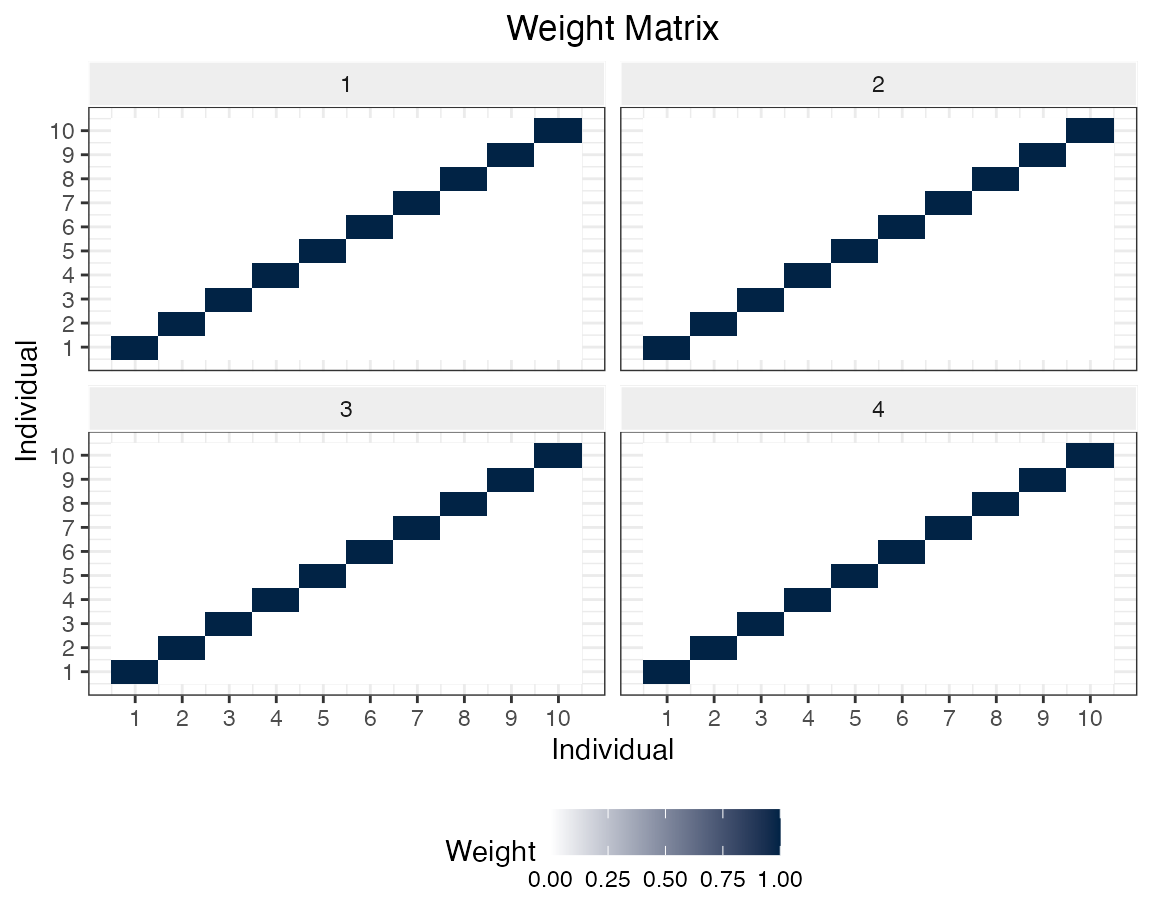
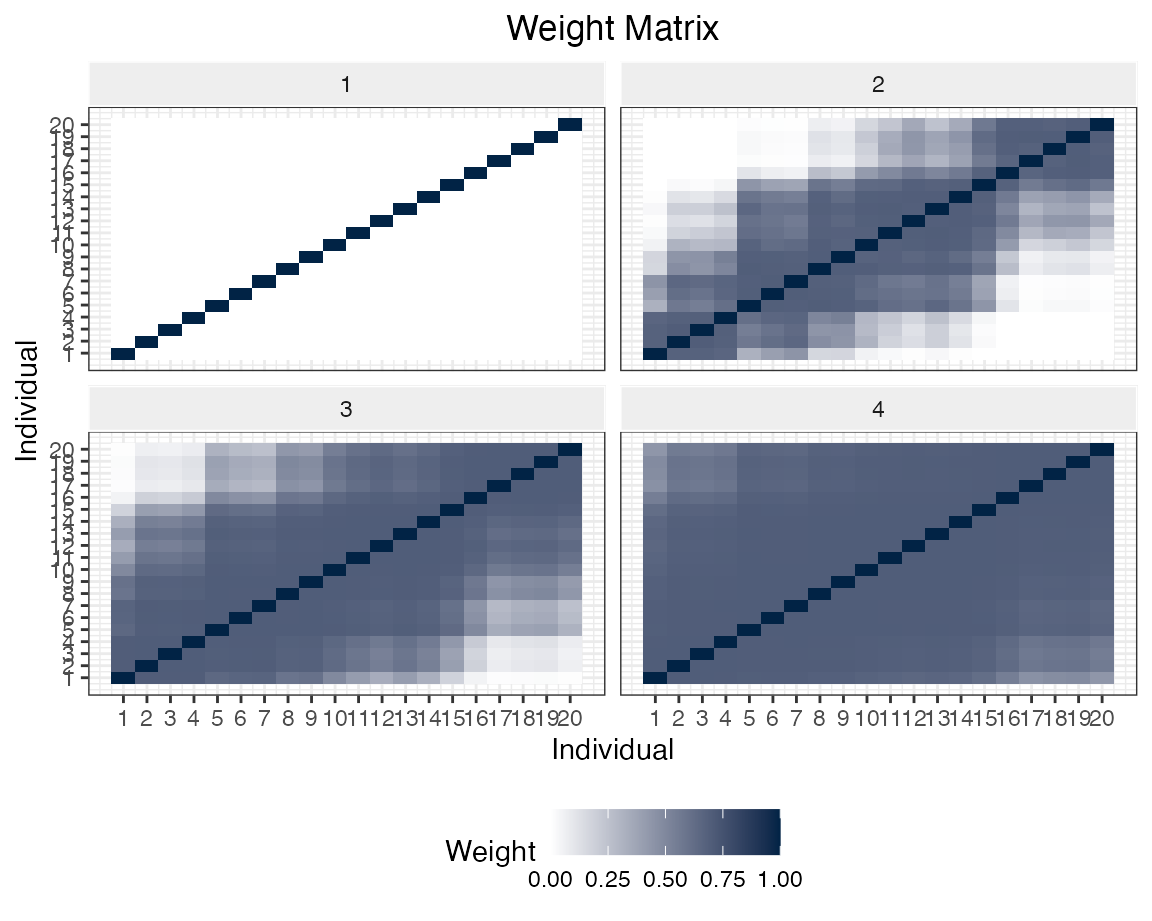
Built site for AdaptiveDiscreteSmoothing: 0.0.0.9000@864e9a6

diff --git a/articles/intro_ads.html b/articles/intro_ads.html
@@ -45,21 +45,21 @@
 </li>
 <li>
   <a href="../articles/getstarted.html">
-    <span class="fas fa-solid fa-rocket"></span>
+    <span class="fa fa-solid fa-rocket"></span>
      
     Get started
   </a>
 </li>
 <li>
   <a href="../reference/index.html">
-    <span class="fas fa-file-alt"></span>
+    <span class="fa fa-file-alt"></span>
      
     Reference
   </a>
 </li>
 <li class="dropdown">
   <a href="#" class="dropdown-toggle" data-toggle="dropdown" role="button" aria-expanded="false">
-    <span class="fas fa-solid fa-book"></span>
+    <span class="fa fa-solid fa-book"></span>
      
     Articles
      
@@ -150,10 +150,10 @@ At first, we have to initialize the adaptive discrete smoothing model with a val
 -\alpha_j\\-\alpha_j^2\\ \alpha_j\\ \alpha_j/2\\ \alpha_j/3 \\ \vdots  \end{pmatrix}.\]</span></p>
 <div class="sourceCode" id="cb5"><pre class="downlit sourceCode r">
 <code class="sourceCode R"><span class="fu"><a href="https://rdrr.io/r/base/Random.html">set.seed</a></span><span class="op">(</span><span class="fl">42</span><span class="op">)</span>
-<span class="va">n</span> <span class="op">&lt;-</span> <span class="fl">100</span>; <span class="va">N</span> <span class="op">&lt;-</span> <span class="fl">10</span>; <span class="va">p</span> <span class="op">&lt;-</span> <span class="fl">10</span>
+<span class="va">n</span> <span class="op">&lt;-</span> <span class="fl">200</span>; <span class="va">N</span> <span class="op">&lt;-</span> <span class="fl">20</span>; <span class="va">p</span> <span class="op">&lt;-</span> <span class="fl">10</span>
 
 <span class="va">ind</span> <span class="op">&lt;-</span> <span class="fu"><a href="https://rdrr.io/r/base/factor.html">as.factor</a></span><span class="op">(</span><span class="fu"><a href="https://rdrr.io/r/base/rep.html">rep</a></span><span class="op">(</span><span class="fl">1</span><span class="op">:</span><span class="va">N</span>,each <span class="op">=</span> <span class="va">n</span><span class="op">)</span><span class="op">)</span>
-<span class="va">alpha_vec</span> <span class="op">&lt;-</span> <span class="fu"><a href="https://rdrr.io/r/stats/Uniform.html">runif</a></span><span class="op">(</span><span class="va">N</span>, min <span class="op">=</span> <span class="fl">0</span>, max <span class="op">=</span> <span class="fl">1</span><span class="op">)</span>
+<span class="va">alpha_vec</span> <span class="op">&lt;-</span> <span class="fu"><a href="https://rdrr.io/r/base/sort.html">sort</a></span><span class="op">(</span><span class="fu"><a href="https://rdrr.io/r/stats/Uniform.html">runif</a></span><span class="op">(</span><span class="va">N</span>, min <span class="op">=</span> <span class="fl">0</span>, max <span class="op">=</span> <span class="fl">1</span><span class="op">)</span><span class="op">)</span>
 <span class="va">X</span> <span class="op">&lt;-</span> <span class="fu"><a href="https://rdrr.io/r/base/matrix.html">matrix</a></span><span class="op">(</span>nrow <span class="op">=</span> <span class="fl">0</span>, ncol <span class="op">=</span> <span class="fl">10</span><span class="op">)</span>
 <span class="va">Y</span> <span class="op">&lt;-</span> <span class="fu"><a href="https://rdrr.io/r/base/numeric.html">numeric</a></span><span class="op">(</span><span class="op">)</span>
 <span class="kw">for</span> <span class="op">(</span><span class="va">individual</span> <span class="kw">in</span> <span class="fu"><a href="https://rdrr.io/r/base/seq.html">seq_len</a></span><span class="op">(</span><span class="va">N</span><span class="op">)</span><span class="op">)</span><span class="op">{</span>
@@ -164,7 +164,8 @@ At first, we have to initialize the adaptive discrete smoothing model with a val
   <span class="va">Y</span> <span class="op">&lt;-</span> <span class="fu"><a href="https://rdrr.io/r/base/append.html">append</a></span><span class="op">(</span><span class="va">Y</span>,<span class="va">X_ind</span><span class="op">%*%</span><span class="va">beta</span> <span class="op">+</span> <span class="fu"><a href="https://rdrr.io/r/stats/Normal.html">rnorm</a></span><span class="op">(</span><span class="va">n</span>,<span class="fl">0</span>,<span class="fl">1</span><span class="op">)</span><span class="op">)</span>
 <span class="op">}</span>
 <span class="va">data</span> <span class="op">&lt;-</span> <span class="fu"><a href="https://rdrr.io/r/base/data.frame.html">data.frame</a></span><span class="op">(</span><span class="va">X</span>,<span class="st">"y"</span> <span class="op">=</span> <span class="va">Y</span>, <span class="st">"ind"</span> <span class="op">=</span> <span class="va">ind</span><span class="op">)</span></code></pre></div>
-<p>We can apply the same learners as above or work with different learners. For example we can use random forests from the <a href="https://cran.r-project.org/web/packages/ranger/index.html">ranger-package</a>,</p>
+<p>The values of <span class="math inline">\(\alpha\)</span> are sorted increasingly, to be able to interpret the weights (which should be higher on the diagonal of the heatmap).<br>
+We can apply the same learners as above or work with different learners. For example we can use random forests from the <a href="https://cran.r-project.org/web/packages/ranger/index.html">ranger-package</a> or</p>
 <div class="sourceCode" id="cb6"><pre class="downlit sourceCode r">
 <code class="sourceCode R"><span class="va">model_rf</span> <span class="op">&lt;-</span> <span class="va"><a href="../reference/ADS.html">ADS</a></span><span class="op">$</span><span class="fu">new</span><span class="op">(</span>data <span class="op">=</span> <span class="va">data</span>,
                  target <span class="op">=</span> <span class="st">"y"</span>,
@@ -172,7 +173,7 @@ At first, we have to initialize the adaptive discrete smoothing model with a val
                  learner <span class="op">=</span> <span class="va">mlr_learners</span><span class="op">$</span><span class="fu">get</span><span class="op">(</span><span class="st">"regr.ranger"</span><span class="op">)</span>,
                  iterations <span class="op">=</span> <span class="fl">4</span><span class="op">)</span>
 <span class="va">model_rf</span><span class="op">$</span><span class="fu">fit</span><span class="op">(</span><span class="op">)</span></code></pre></div>
-<p>cross-validated elastic net from the <a href="https://cran.r-project.org/web/packages/glmnet/index.html">glmnet-package</a></p>
+<p>cross-validated elastic net from the <a href="https://cran.r-project.org/web/packages/glmnet/index.html">glmnet-package</a>.</p>
 <div class="sourceCode" id="cb7"><pre class="downlit sourceCode r">
 <code class="sourceCode R"><span class="va">model_glmnet</span> <span class="op">&lt;-</span> <span class="va"><a href="../reference/ADS.html">ADS</a></span><span class="op">$</span><span class="fu">new</span><span class="op">(</span>data <span class="op">=</span> <span class="va">data</span>,
                  target <span class="op">=</span> <span class="st">"y"</span>,
@@ -180,24 +181,50 @@ At first, we have to initialize the adaptive discrete smoothing model with a val
                  learner <span class="op">=</span> <span class="va">mlr_learners</span><span class="op">$</span><span class="fu">get</span><span class="op">(</span><span class="st">"regr.cv_glmnet"</span><span class="op">)</span>,
                  iterations <span class="op">=</span> <span class="fl">4</span><span class="op">)</span>
 <span class="va">model_glmnet</span><span class="op">$</span><span class="fu">fit</span><span class="op">(</span><span class="op">)</span></code></pre></div>
-<p>or boosting from the <a href="https://xgboost.readthedocs.io/en/latest/R-package/index.html">xgboost-package</a>.</p>
 <p>Next, we generate a test dataset <code>data_test</code> with the same coefficients and evaluate the performance of the estimators.</p>
 <div class="sourceCode" id="cb8"><pre class="downlit sourceCode r">
 <code class="sourceCode R"><span class="fu"><a href="https://rdrr.io/r/base/print.html">print</a></span><span class="op">(</span><span class="fu"><a href="https://rdrr.io/r/base/mean.html">mean</a></span><span class="op">(</span><span class="op">(</span><span class="va">data_test</span><span class="op">$</span><span class="va">y</span> <span class="op">-</span> <span class="va">model_rf</span><span class="op">$</span><span class="fu">predict</span><span class="op">(</span>newdata <span class="op">=</span> <span class="va">data_test</span><span class="op">)</span><span class="op">)</span><span class="op">^</span><span class="fl">2</span><span class="op">)</span><span class="op">)</span>
-<span class="co">#&gt; [1] 7.378971</span>
+<span class="co">#&gt; [1] 3.772773</span>
 <span class="fu"><a href="https://rdrr.io/r/base/print.html">print</a></span><span class="op">(</span><span class="fu"><a href="https://rdrr.io/r/base/mean.html">mean</a></span><span class="op">(</span><span class="op">(</span><span class="va">data_test</span><span class="op">$</span><span class="va">y</span> <span class="op">-</span> <span class="va">model_glmnet</span><span class="op">$</span><span class="fu">predict</span><span class="op">(</span>newdata <span class="op">=</span> <span class="va">data_test</span><span class="op">)</span><span class="op">)</span><span class="op">^</span><span class="fl">2</span><span class="op">)</span><span class="op">)</span>
-<span class="co">#&gt; [1] 1.315827</span>
-<span class="fu"><a href="https://rdrr.io/r/base/print.html">print</a></span><span class="op">(</span><span class="fu"><a href="https://rdrr.io/r/base/mean.html">mean</a></span><span class="op">(</span><span class="op">(</span><span class="va">data_test</span><span class="op">$</span><span class="va">y</span> <span class="op">-</span> <span class="va">model_xgb</span><span class="op">$</span><span class="fu">predict</span><span class="op">(</span>newdata <span class="op">=</span> <span class="va">data_test</span><span class="op">)</span><span class="op">)</span><span class="op">^</span><span class="fl">2</span><span class="op">)</span><span class="op">)</span>
-<span class="co">#&gt; [1] 13.15944</span></code></pre></div>
+<span class="co">#&gt; [1] 1.402155</span></code></pre></div>
 <div class="sourceCode" id="cb9"><pre class="downlit sourceCode r">
 <code class="sourceCode R"><span class="va">model_rf</span><span class="op">$</span><span class="fu">heatmap</span><span class="op">(</span><span class="op">)</span></code></pre></div>
-<p><img src="intro_ads_files/figure-html/unnamed-chunk-12-1.png" width="80%" style="display: block; margin: auto;"></p>
+<p><img src="intro_ads_files/figure-html/unnamed-chunk-11-1.png" width="80%" style="display: block; margin: auto;"></p>
 <div class="sourceCode" id="cb10"><pre class="downlit sourceCode r">
 <code class="sourceCode R"><span class="va">model_glmnet</span><span class="op">$</span><span class="fu">heatmap</span><span class="op">(</span><span class="op">)</span></code></pre></div>
-<p><img src="intro_ads_files/figure-html/unnamed-chunk-13-1.png" width="80%" style="display: block; margin: auto;"></p>
+<p><img src="intro_ads_files/figure-html/unnamed-chunk-12-1.png" width="80%" style="display: block; margin: auto;"></p>
+</div>
+<div id="a-nonlinear-example" class="section level2">
+<h2 class="hasAnchor">
+<a href="#a-nonlinear-example" class="anchor"></a>A nonlinear Example</h2>
+<p>For each individual <span class="math inline">\(j = 1,\dots, N\)</span>, we generate <span class="math inline">\(i = 1,\dots n\)</span> observations of covariates <span class="math inline">\(X_{i,j} \in \mathbb{R}^p\)</span>, where the covariates are generated by a normal distribution <span class="math inline">\(\mathcal{N}(0,\Sigma)\)</span> (here we consider <span class="math inline">\(\Sigma = I_p\)</span>). The outcome is constructed by the following model <span class="math display">\[Y_{i,j} = 2\sin(\alpha_jX_{i,j,1}) + \alpha_j^2 X_{i,j,2} + \varepsilon_{i,j},\]</span> where <span class="math inline">\(\varepsilon_{i,j} \sim \mathcal{N}(0,\sigma_\varepsilon^2)\)</span> and <span class="math inline">\(\alpha_j \sim \mathcal{U}[0,1]\)</span>.</p>
 <div class="sourceCode" id="cb11"><pre class="downlit sourceCode r">
-<code class="sourceCode R"><span class="va">model_xgb</span><span class="op">$</span><span class="fu">heatmap</span><span class="op">(</span><span class="op">)</span></code></pre></div>
-<p><img src="intro_ads_files/figure-html/unnamed-chunk-14-1.png" width="80%" style="display: block; margin: auto;"></p>
+<code class="sourceCode R"><span class="fu"><a href="https://rdrr.io/r/base/Random.html">set.seed</a></span><span class="op">(</span><span class="fl">42</span><span class="op">)</span>
+<span class="va">n</span> <span class="op">&lt;-</span> <span class="fl">200</span>; <span class="va">N</span> <span class="op">&lt;-</span> <span class="fl">10</span>; <span class="va">p</span> <span class="op">&lt;-</span> <span class="fl">10</span>
+<span class="va">ind</span> <span class="op">&lt;-</span> <span class="fu"><a href="https://rdrr.io/r/base/factor.html">as.factor</a></span><span class="op">(</span><span class="fu"><a href="https://rdrr.io/r/base/rep.html">rep</a></span><span class="op">(</span><span class="fl">1</span><span class="op">:</span><span class="va">N</span>,each <span class="op">=</span> <span class="va">n</span><span class="op">)</span><span class="op">)</span>
+<span class="va">alpha_vec</span> <span class="op">&lt;-</span> <span class="fu"><a href="https://rdrr.io/r/base/sort.html">sort</a></span><span class="op">(</span><span class="fu"><a href="https://rdrr.io/r/stats/Uniform.html">runif</a></span><span class="op">(</span><span class="va">N</span>, min <span class="op">=</span> <span class="fl">0</span>, max <span class="op">=</span> <span class="fl">1</span><span class="op">)</span><span class="op">)</span>
+<span class="va">X</span> <span class="op">&lt;-</span> <span class="fu"><a href="https://rdrr.io/r/base/matrix.html">matrix</a></span><span class="op">(</span>nrow <span class="op">=</span> <span class="fl">0</span>, ncol <span class="op">=</span> <span class="fl">10</span><span class="op">)</span>
+<span class="va">Y</span> <span class="op">&lt;-</span> <span class="fu"><a href="https://rdrr.io/r/base/numeric.html">numeric</a></span><span class="op">(</span><span class="op">)</span>
+<span class="kw">for</span> <span class="op">(</span><span class="va">individual</span> <span class="kw">in</span> <span class="fu"><a href="https://rdrr.io/r/base/seq.html">seq_len</a></span><span class="op">(</span><span class="va">N</span><span class="op">)</span><span class="op">)</span><span class="op">{</span>
+  <span class="va">X_ind</span> <span class="op">&lt;-</span> <span class="fu"><a href="https://rdrr.io/r/base/matrix.html">matrix</a></span><span class="op">(</span><span class="fu"><a href="https://rdrr.io/r/stats/Normal.html">rnorm</a></span><span class="op">(</span><span class="va">n</span><span class="op">*</span><span class="va">p</span>,<span class="fl">0</span>,<span class="fl">1</span><span class="op">)</span>, ncol <span class="op">=</span> <span class="va">p</span><span class="op">)</span>
+  <span class="va">X</span> <span class="op">&lt;-</span> <span class="fu"><a href="https://rdrr.io/r/base/cbind.html">rbind</a></span><span class="op">(</span><span class="va">X</span>,<span class="va">X_ind</span><span class="op">)</span>
+  <span class="va">alpha</span> <span class="op">&lt;-</span> <span class="va">alpha_vec</span><span class="op">[</span><span class="va">individual</span><span class="op">]</span>
+  <span class="va">Y</span> <span class="op">&lt;-</span> <span class="fu"><a href="https://rdrr.io/r/base/append.html">append</a></span><span class="op">(</span><span class="va">Y</span>,<span class="fl">2</span><span class="op">*</span><span class="fu"><a href="https://rdrr.io/r/base/Trig.html">sin</a></span><span class="op">(</span><span class="va">alpha</span><span class="op">*</span><span class="va">X_ind</span><span class="op">[</span>,<span class="fl">1</span><span class="op">]</span><span class="op">)</span><span class="op">+</span><span class="va">alpha</span><span class="op">^</span><span class="fl">2</span><span class="op">*</span><span class="va">X_ind</span><span class="op">[</span>,<span class="fl">2</span><span class="op">]</span><span class="op">+</span><span class="fu"><a href="https://rdrr.io/r/stats/Normal.html">rnorm</a></span><span class="op">(</span><span class="va">n</span>,<span class="fl">0</span>,<span class="fl">1</span><span class="op">)</span><span class="op">)</span>
+<span class="op">}</span>
+<span class="va">data</span> <span class="op">&lt;-</span> <span class="fu"><a href="https://rdrr.io/r/base/data.frame.html">data.frame</a></span><span class="op">(</span><span class="va">X</span>,<span class="st">"y"</span> <span class="op">=</span> <span class="va">Y</span>, <span class="st">"ind"</span> <span class="op">=</span> <span class="va">ind</span><span class="op">)</span></code></pre></div>
+<div class="sourceCode" id="cb12"><pre class="downlit sourceCode r">
+<code class="sourceCode R"><span class="va">model_rf</span> <span class="op">&lt;-</span> <span class="va"><a href="../reference/ADS.html">ADS</a></span><span class="op">$</span><span class="fu">new</span><span class="op">(</span>data <span class="op">=</span> <span class="va">data</span>,
+                 target <span class="op">=</span> <span class="st">"y"</span>,
+                 individ <span class="op">=</span> <span class="st">"ind"</span>,
+                 learner <span class="op">=</span> <span class="va">mlr_learners</span><span class="op">$</span><span class="fu">get</span><span class="op">(</span><span class="st">"regr.ranger"</span><span class="op">)</span>,
+                 iterations <span class="op">=</span> <span class="fl">4</span><span class="op">)</span>
+<span class="va">model_rf</span><span class="op">$</span><span class="fu">fit</span><span class="op">(</span><span class="op">)</span></code></pre></div>
+<div class="sourceCode" id="cb13"><pre class="downlit sourceCode r">
+<code class="sourceCode R"><span class="fu"><a href="https://rdrr.io/r/base/print.html">print</a></span><span class="op">(</span><span class="fu"><a href="https://rdrr.io/r/base/mean.html">mean</a></span><span class="op">(</span><span class="op">(</span><span class="va">data_test</span><span class="op">$</span><span class="va">y</span> <span class="op">-</span> <span class="va">model_rf</span><span class="op">$</span><span class="fu">predict</span><span class="op">(</span>newdata <span class="op">=</span> <span class="va">data_test</span><span class="op">)</span><span class="op">)</span><span class="op">^</span><span class="fl">2</span><span class="op">)</span><span class="op">)</span>
+<span class="co">#&gt; [1] 1.059149</span></code></pre></div>
+<div class="sourceCode" id="cb14"><pre class="downlit sourceCode r">
+<code class="sourceCode R"><span class="va">model_rf</span><span class="op">$</span><span class="fu">heatmap</span><span class="op">(</span><span class="op">)</span></code></pre></div>
+<p><img src="intro_ads_files/figure-html/unnamed-chunk-17-1.png" width="80%" style="display: block; margin: auto;"></p>
 </div>
   </div>
 

diff --git a/articles/getstarted.html b/articles/getstarted.html
@@ -45,21 +45,21 @@
 </li>
 <li>
   <a href="../articles/getstarted.html">
-    <span class="fas fa-solid fa-rocket"></span>
+    <span class="fa fa-solid fa-rocket"></span>
      
     Get started
   </a>
 </li>
 <li>
   <a href="../reference/index.html">
-    <span class="fas fa-file-alt"></span>
+    <span class="fa fa-file-alt"></span>
      
     Reference
   </a>
 </li>
 <li class="dropdown">
   <a href="#" class="dropdown-toggle" data-toggle="dropdown" role="button" aria-expanded="false">
-    <span class="fas fa-solid fa-book"></span>
+    <span class="fa fa-solid fa-book"></span>
      
     Articles
      

diff --git a/articles/index.html b/articles/index.html
@@ -85,21 +85,21 @@
 </li>
 <li>
   <a href="../articles/getstarted.html">
-    <span class="fas fa-solid fa-rocket"></span>
+    <span class="fa fa-solid fa-rocket"></span>
      
     Get started
   </a>
 </li>
 <li>
   <a href="../reference/index.html">
-    <span class="fas fa-file-alt"></span>
+    <span class="fa fa-file-alt"></span>
      
     Reference
   </a>
 </li>
 <li class="dropdown">
   <a href="#" class="dropdown-toggle" data-toggle="dropdown" role="button" aria-expanded="false">
-    <span class="fas fa-solid fa-book"></span>
+    <span class="fa fa-solid fa-book"></span>
      
     Articles
      

diff --git a/articles/install.html b/articles/install.html
@@ -45,21 +45,21 @@
 </li>
 <li>
   <a href="../articles/getstarted.html">
-    <span class="fas fa-solid fa-rocket"></span>
+    <span class="fa fa-solid fa-rocket"></span>
      
     Get started
   </a>
 </li>
 <li>
   <a href="../reference/index.html">
-    <span class="fas fa-file-alt"></span>
+    <span class="fa fa-file-alt"></span>
      
     Reference
   </a>
 </li>
 <li class="dropdown">
   <a href="#" class="dropdown-toggle" data-toggle="dropdown" role="button" aria-expanded="false">
-    <span class="fas fa-solid fa-book"></span>
+    <span class="fa fa-solid fa-book"></span>
      
     Articles
      

diff --git a/reference/ADS.html b/reference/ADS.html
@@ -86,21 +86,21 @@
 </li>
 <li>
   <a href="../articles/getstarted.html">
-    <span class="fas fa-solid fa-rocket"></span>
+    <span class="fa fa-solid fa-rocket"></span>
      
     Get started
   </a>
 </li>
 <li>
   <a href="../reference/index.html">
-    <span class="fas fa-file-alt"></span>
+    <span class="fa fa-file-alt"></span>
      
     Reference
   </a>
 </li>
 <li class="dropdown">
   <a href="#" class="dropdown-toggle" data-toggle="dropdown" role="button" aria-expanded="false">
-    <span class="fas fa-solid fa-book"></span>
+    <span class="fa fa-solid fa-book"></span>
      
     Articles
      

diff --git a/reference/calc_dist_default.html b/reference/calc_dist_default.html
@@ -86,21 +86,21 @@
 </li>
 <li>
   <a href="../articles/getstarted.html">
-    <span class="fas fa-solid fa-rocket"></span>
+    <span class="fa fa-solid fa-rocket"></span>
      
     Get started
   </a>
 </li>
 <li>
   <a href="../reference/index.html">
-    <span class="fas fa-file-alt"></span>
+    <span class="fa fa-file-alt"></span>
      
     Reference
   </a>
 </li>
 <li class="dropdown">
   <a href="#" class="dropdown-toggle" data-toggle="dropdown" role="button" aria-expanded="false">
-    <span class="fas fa-solid fa-book"></span>
+    <span class="fa fa-solid fa-book"></span>
      
     Articles
      

diff --git a/reference/calc_weight_default.html b/reference/calc_weight_default.html
@@ -86,21 +86,21 @@
 </li>
 <li>
   <a href="../articles/getstarted.html">
-    <span class="fas fa-solid fa-rocket"></span>
+    <span class="fa fa-solid fa-rocket"></span>
      
     Get started
   </a>
 </li>
 <li>
   <a href="../reference/index.html">
-    <span class="fas fa-file-alt"></span>
+    <span class="fa fa-file-alt"></span>
      
     Reference
   </a>
 </li>
 <li class="dropdown">
   <a href="#" class="dropdown-toggle" data-toggle="dropdown" role="button" aria-expanded="false">
-    <span class="fas fa-solid fa-book"></span>
+    <span class="fa fa-solid fa-book"></span>
      
     Articles
      

diff --git a/reference/index.html b/reference/index.html
@@ -85,21 +85,21 @@
 </li>
 <li>
   <a href="../articles/getstarted.html">
-    <span class="fas fa-solid fa-rocket"></span>
+    <span class="fa fa-solid fa-rocket"></span>
      
     Get started
   </a>
 </li>
 <li>
   <a href="../reference/index.html">
-    <span class="fas fa-file-alt"></span>
+    <span class="fa fa-file-alt"></span>
      
     Reference
   </a>
 </li>
 <li class="dropdown">
   <a href="#" class="dropdown-toggle" data-toggle="dropdown" role="button" aria-expanded="false">
-    <span class="fas fa-solid fa-book"></span>
+    <span class="fa fa-solid fa-book"></span>
      
     Articles
      

diff --git a/404.html b/404.html
@@ -85,21 +85,21 @@
 </li>
 <li>
   <a href="articles/getstarted.html">
-    <span class="fas fa-solid fa-rocket"></span>
+    <span class="fa fa-solid fa-rocket"></span>
      
     Get started
   </a>
 </li>
 <li>
   <a href="reference/index.html">
-    <span class="fas fa-file-alt"></span>
+    <span class="fa fa-file-alt"></span>
      
     Reference
   </a>
 </li>
 <li class="dropdown">
   <a href="#" class="dropdown-toggle" data-toggle="dropdown" role="button" aria-expanded="false">
-    <span class="fas fa-solid fa-book"></span>
+    <span class="fa fa-solid fa-book"></span>
      
     Articles
      

diff --git a/LICENSE-text.html b/LICENSE-text.html
@@ -85,21 +85,21 @@
 </li>
 <li>
   <a href="articles/getstarted.html">
-    <span class="fas fa-solid fa-rocket"></span>
+    <span class="fa fa-solid fa-rocket"></span>
      
     Get started
   </a>
 </li>
 <li>
   <a href="reference/index.html">
-    <span class="fas fa-file-alt"></span>
+    <span class="fa fa-file-alt"></span>
      
     Reference
   </a>
 </li>
 <li class="dropdown">
   <a href="#" class="dropdown-toggle" data-toggle="dropdown" role="button" aria-expanded="false">
-    <span class="fas fa-solid fa-book"></span>
+    <span class="fa fa-solid fa-book"></span>
      
     Articles
      

diff --git a/LICENSE.html b/LICENSE.html
@@ -85,21 +85,21 @@
 </li>
 <li>
   <a href="articles/getstarted.html">
-    <span class="fas fa-solid fa-rocket"></span>
+    <span class="fa fa-solid fa-rocket"></span>
      
     Get started
   </a>
 </li>
 <li>
   <a href="reference/index.html">
-    <span class="fas fa-file-alt"></span>
+    <span class="fa fa-file-alt"></span>
      
     Reference
   </a>
 </li>
 <li class="dropdown">
   <a href="#" class="dropdown-toggle" data-toggle="dropdown" role="button" aria-expanded="false">
-    <span class="fas fa-solid fa-book"></span>
+    <span class="fa fa-solid fa-book"></span>
      
     Articles
      

diff --git a/authors.html b/authors.html
@@ -85,21 +85,21 @@
 </li>
 <li>
   <a href="articles/getstarted.html">
-    <span class="fas fa-solid fa-rocket"></span>
+    <span class="fa fa-solid fa-rocket"></span>
      
     Get started
   </a>
 </li>
 <li>
   <a href="reference/index.html">
-    <span class="fas fa-file-alt"></span>
+    <span class="fa fa-file-alt"></span>
      
     Reference
   </a>
 </li>
 <li class="dropdown">
   <a href="#" class="dropdown-toggle" data-toggle="dropdown" role="button" aria-expanded="false">
-    <span class="fas fa-solid fa-book"></span>
+    <span class="fa fa-solid fa-book"></span>
      
     Articles
      
